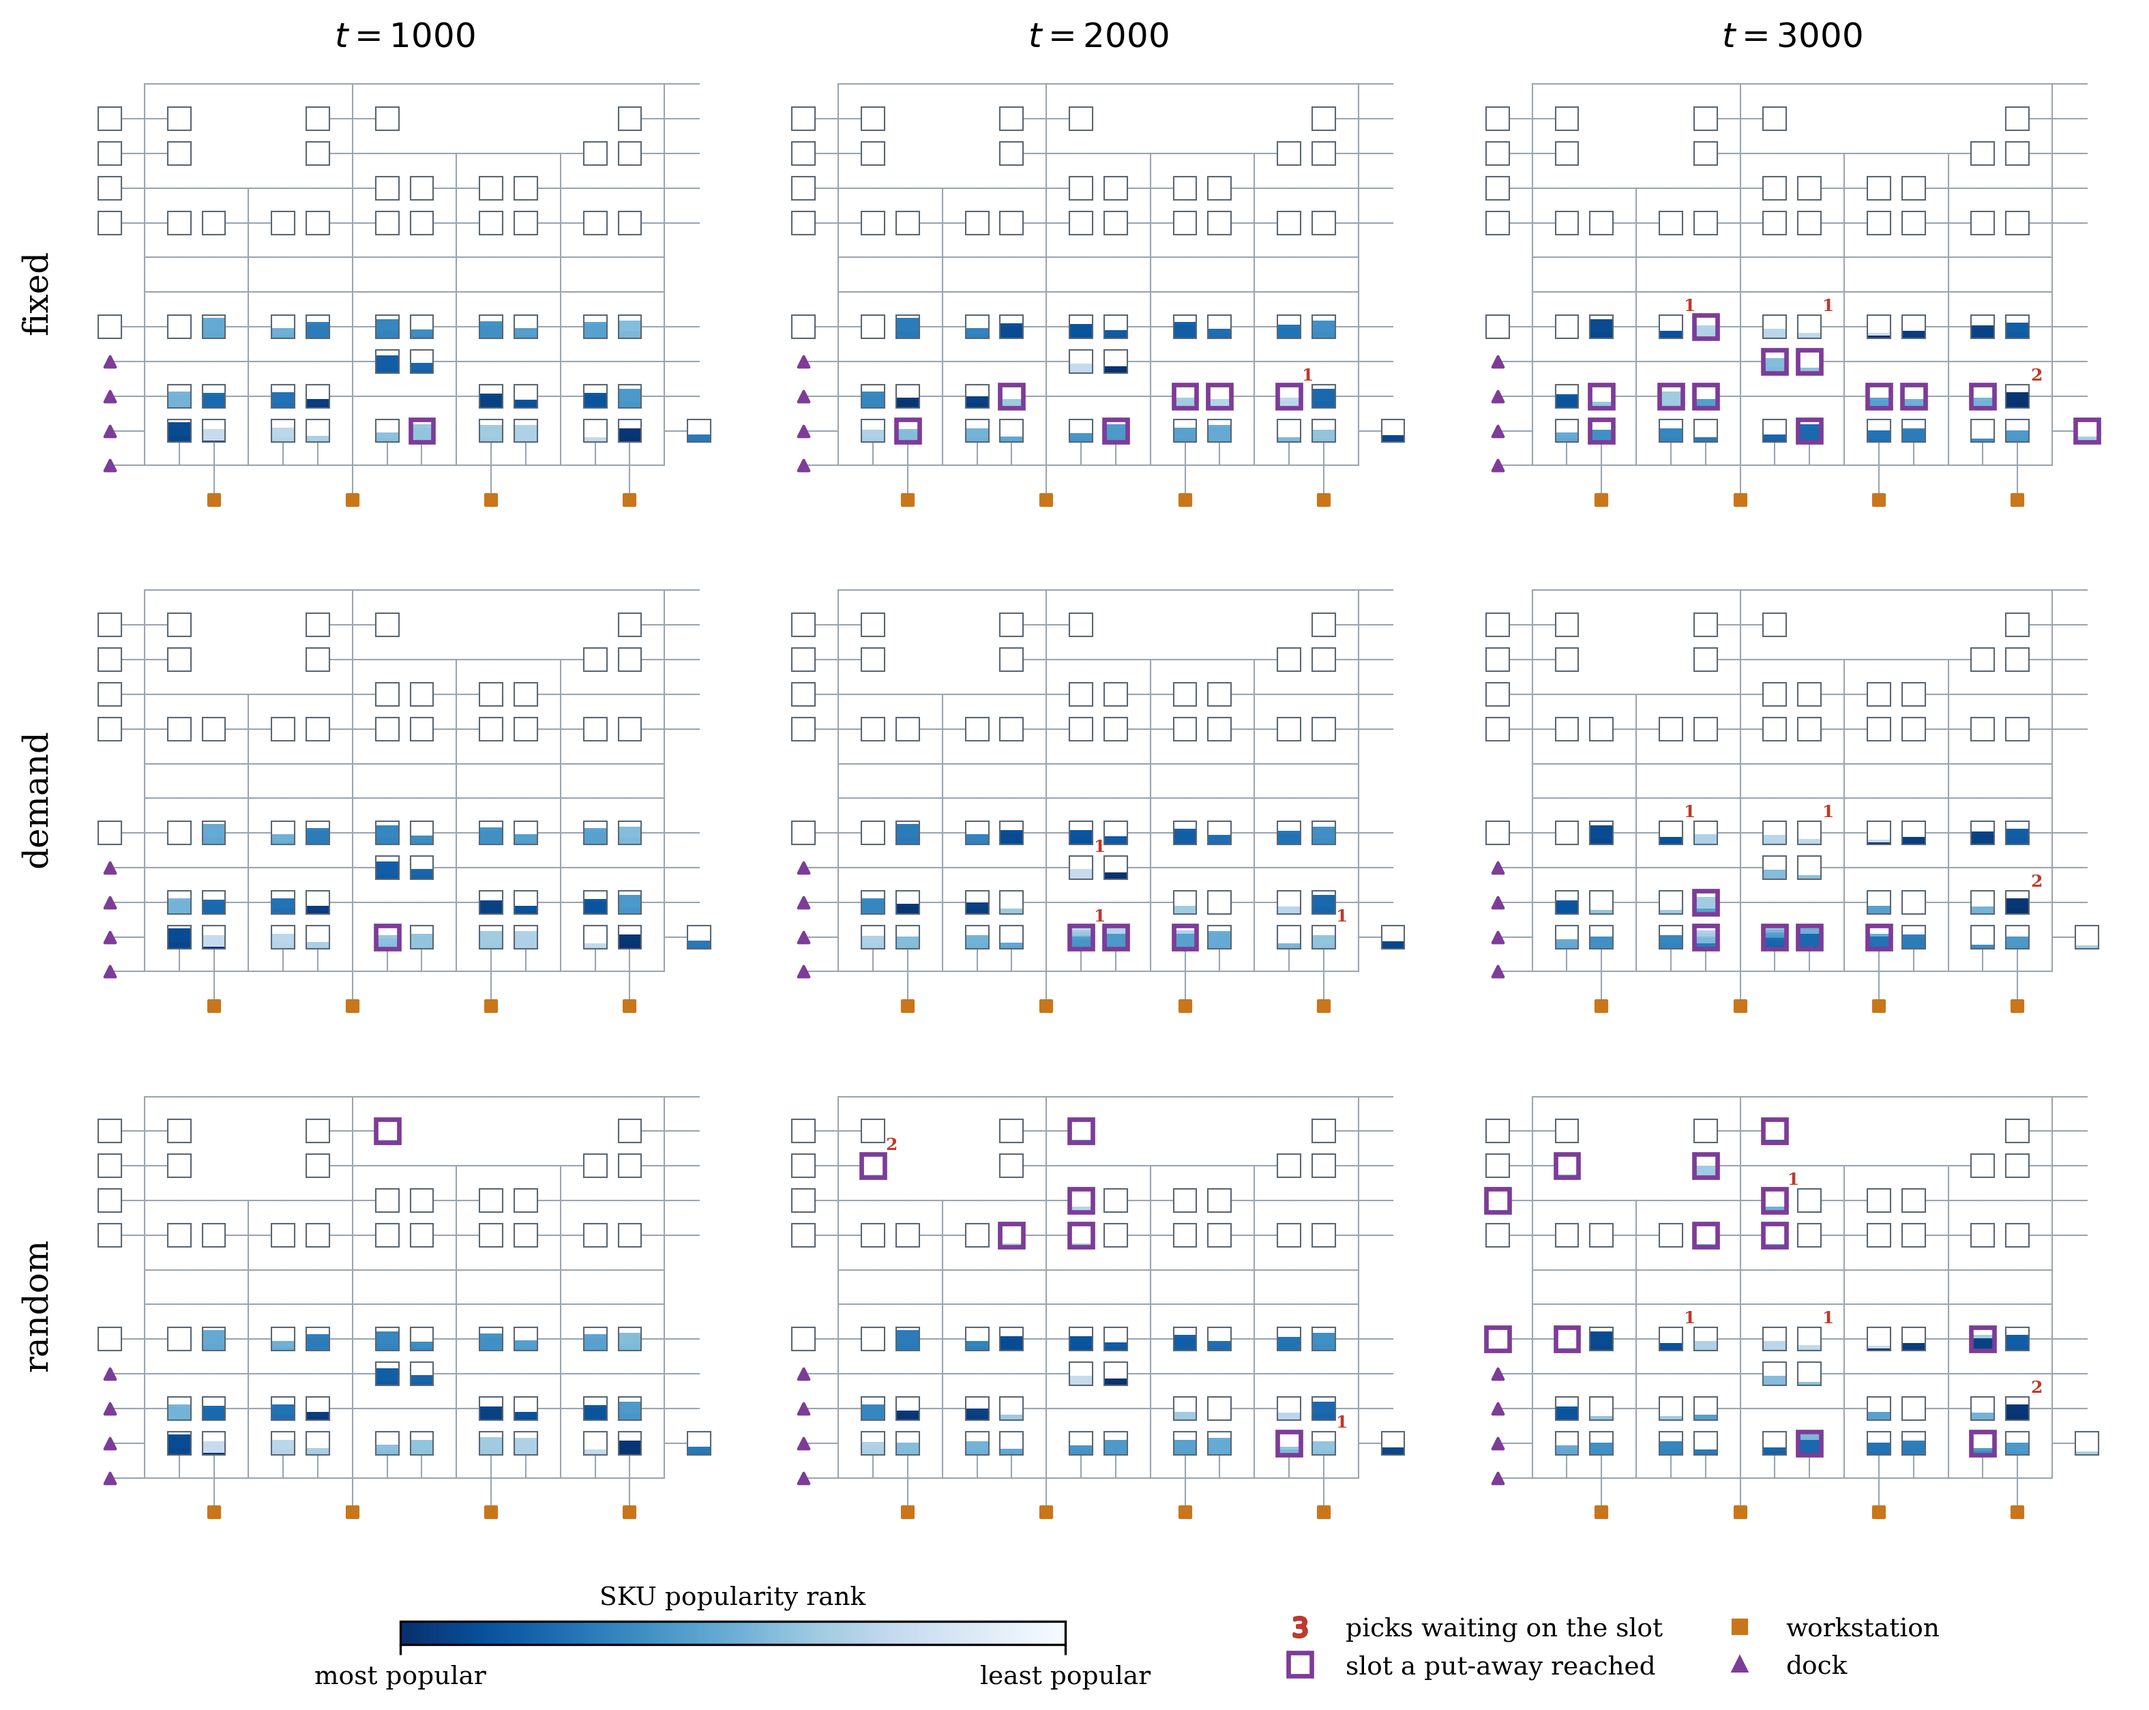
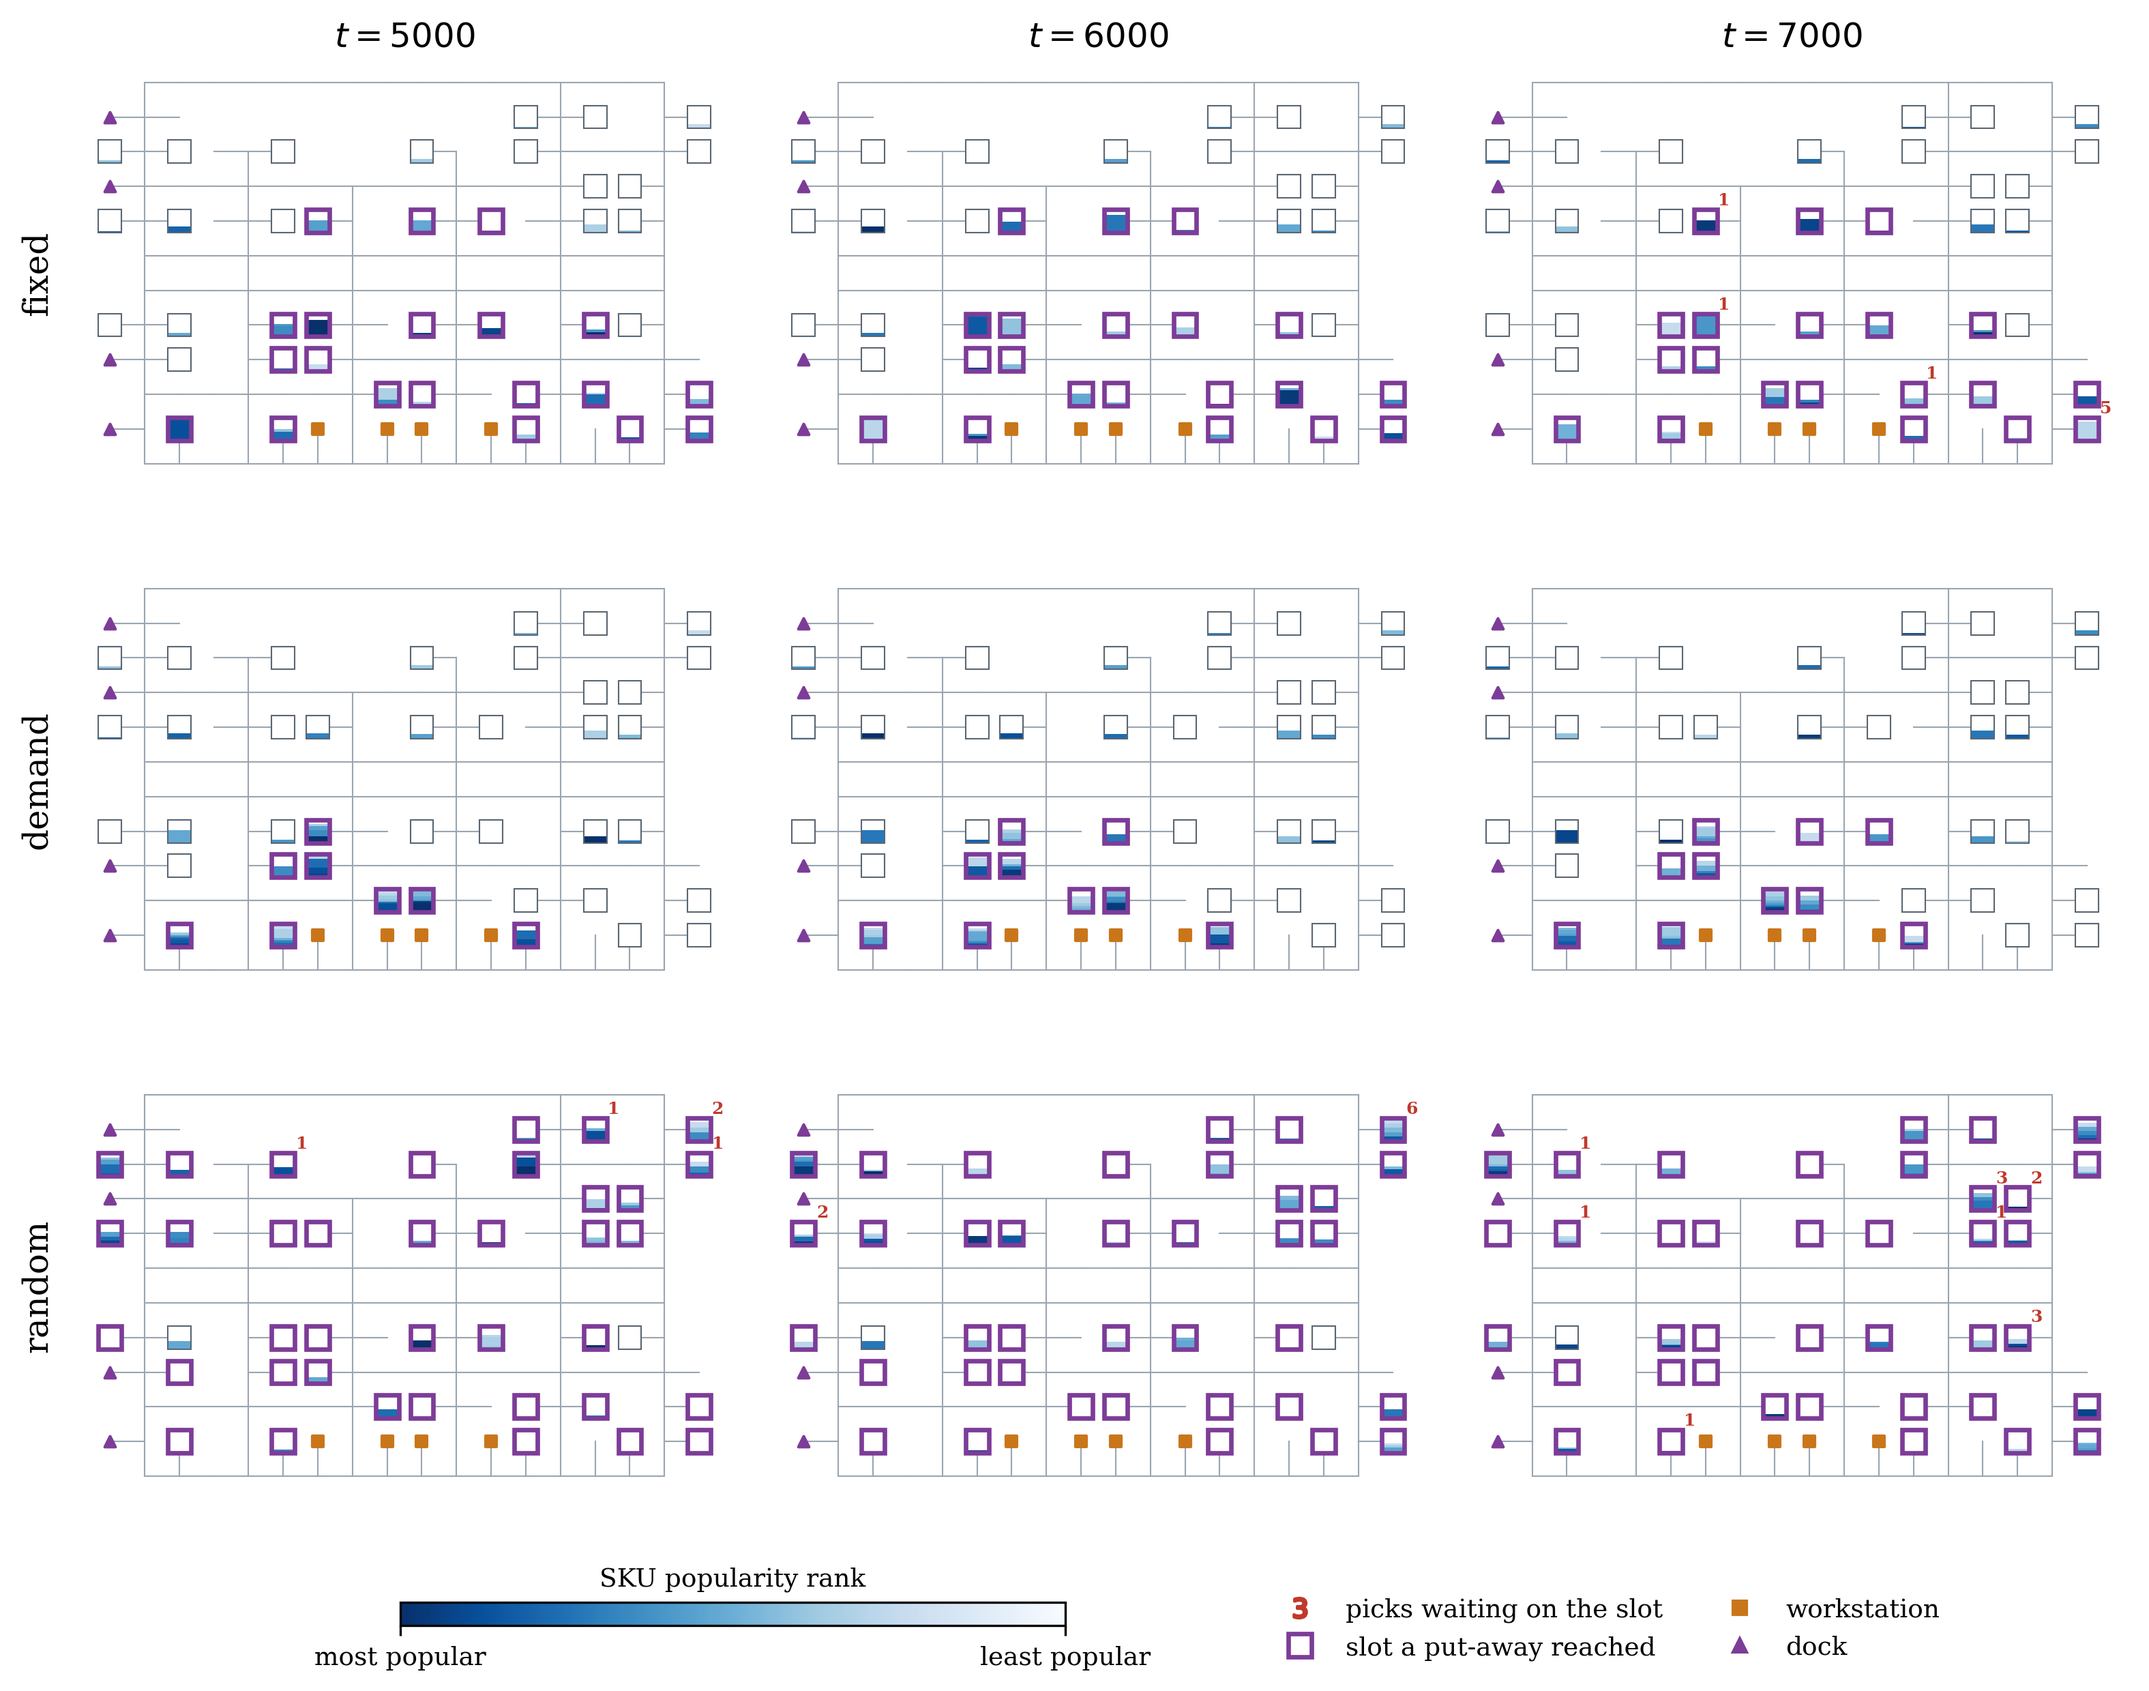
Appendix figures on the updated run: main loads in E, refill size in G, stock moments redrawn
appendix_load.py adds the main-load rows (demand.skew at 1) to the load figures. appendix_storage.py
draws the refill size (arrival.refill_units, with Q = 10 from the period sweep) instead of the
stock margin, which the refill rule does not have. stock_moments_data.py takes the moments at
5000, 6000 and 7000, the end of the warm-up and a quarter and a half cycle later, and gives the
command for its run.

diff --git a/scripts/images/appendix_storage.py b/scripts/images/appendix_storage.py
@@ -4,10 +4,10 @@ The figures of the Storage rule values appendix (G.StorageValues.tex, app:storag
 Run:  python thesis-progress/scripts/images/appendix_storage.py   (from the workspace root)
 Out:  thesis-progress/scripts/Images/app_storage_period.png   fig:app:storageperiod
       thesis-progress/scripts/Images/app_storage_beta.png     fig:app:storagebeta
-      thesis-progress/scripts/Images/app_storage_margin.png   fig:app:storagemargin
+      thesis-progress/scripts/Images/app_storage_refill.png   fig:app:storagerefill
 
 Reads the storage columns of the Token Passing parameter sweep
-(results/G_storage/fleet_<m>/storage_rule.*/, from slap-mapd-coupling's
+(results/G_storage/fleet_<m>/storage_rule.*/ and arrival.refill_units/, from slap-mapd-coupling's
 scripts/sweep/parameter_sweep.bash). A missing run is drawn as a placeholder.
 """
 import os
@@ -35,16 +35,17 @@ def storage_beta():
                         extra=("mean_crowding", "mean\ncrowding"))
 
 
-def storage_margin():
-    """The stock margin epsilon under demand storage, paired with fixed storage at the same
-    margin (app:cal:margin). The margin sets how much stock arrives above the last period's
-    orders, so it changes fixed storage too."""
-    columns = [("arrival.margin", "demand", r"stock margin $\varepsilon$", 1.0, None)]
-    return sweep_figure("app_storage_margin.png", columns, SWEEP)
+def storage_refill():
+    """The refill size Q under demand storage, paired with fixed storage at the same Q
+    (app:cal:refill). Q changes fixed storage too, since it sets how much arrives. The sweep ran
+    Q = 15, 30 and 60, and the point at Q = 10 is the storage period sweep at Delta = 100."""
+    columns = [("arrival.refill_units", "demand", r"refill size $Q$ (units)", 10.0, None)]
+    return sweep_figure("app_storage_refill.png", columns, SWEEP,
+                        add_default=("storage_rule.epoch_length", 100.0))
 
 
 def appendix_storage():
-    return [storage_period(), storage_beta(), storage_margin()]
+    return [storage_period(), storage_beta(), storage_refill()]
 
 
 if __name__ == "__main__":

diff --git a/scripts/images/appendix_data.py b/scripts/images/appendix_data.py
@@ -161,13 +161,16 @@ def save(fig, name):
     return path
 
 
-def sweep_figure(name, columns, results_dir, extra=None):
+def sweep_figure(name, columns, results_dir, extra=None, add_default=None):
     """Storage or demand parameters swept with Token Passing, one column each, read top to
     bottom as the catalogue reads a run: (a) result, the pick service gain over fixed,
     (b) cost, the put-away service time over fixed, (c) check, the share of seeds that keep
     up, picks solid and put-aways dashed. A column is (parameter, rule, x label, default,
     fixed_default). extra = (row field, y label) adds a panel of that field's mean, for
-    example the crowding under the congestion weight."""
+    example the crowding under the congestion weight. add_default = (folder, value) takes the
+    rows of another sweep at `value` as the point at the column's default, when the sweep of the
+    parameter left its default out (the refill size, whose Q = 10 rows are those of the storage
+    period sweep at Delta = 100)."""
     n = 4 if extra else 3
     k = len(columns)
     fig, axes = plt.subplots(n, k, figsize=(4.2 * k + 1.0, 1.7 * n + 1.2), sharex="col",
@@ -181,6 +184,10 @@ def sweep_figure(name, columns, results_dir, extra=None):
             folders = [parameter] + ([fixed_default[0]] if fixed_default else [])
             rows = [r for folder in folders for r in read_jsonl(
                 os.path.join(results_dir, f"fleet_{fleet}", folder, "load_sweep.jsonl"))]
+            if add_default:
+                rows += [dict(r, varied=parameter, value=default) for r in read_jsonl(
+                    os.path.join(results_dir, f"fleet_{fleet}", add_default[0],
+                                 "load_sweep.jsonl")) if r.get("value") == add_default[1]]
             points = sweep_points(rows, parameter, rule, fixed_default)
             if not points:
                 continue

diff --git a/scripts/images/stock_moments_data.py b/scripts/images/stock_moments_data.py
@@ -5,7 +5,12 @@ Run from the workspace root:
     python thesis-progress/scripts/images/stock_moments_data.py RUN_DIR
 
 RUN_DIR is a load_sweep.py output with one trace per storage rule in
-traces/ (made with --trace-seeds 1). The traces are several megabytes and
+traces/ (made with --trace-seeds 1), for example, from slap-mapd-coupling:
+
+    python scripts/sweep/load_sweep.py --config configs/fleet_8/decentralised.yaml \
+        --rates 0.09 --seeds 1 --storage-modes fixed demand random --trace-seeds 1 \
+        --horizon 7000 --warmup 5000 --workers 3 --out RUN_DIR
+ The traces are several megabytes and
 stay off git. This script keeps only the warehouse and, at each moment, the
 units per slot by popularity rank, the picks waiting per slot and the
 put-aways delivered to each slot so far, in data/stock_moments.json.
@@ -17,10 +22,9 @@ import sys
 
 DATA = os.path.join(os.path.dirname(__file__), "data", "stock_moments.json")
 RULES = ("fixed", "demand", "random")
-# After a warm-up stand-in of 1000 steps, then a quarter and a half demand
-# cycle (4000 steps) later. The warm-up is set by test C (Welch's method), so
-# the moments are provisional until it has run.
-MOMENTS = (1000, 2000, 3000)
+# The end of the 5000-step warm-up of the Token Passing runs (app:load:method), then a
+# quarter and a half demand cycle (4000 steps) later.
+MOMENTS = (5000, 6000, 7000)
 
 
 def _lines(path):

diff --git a/scripts/images/appendix_load.py b/scripts/images/appendix_load.py
@@ -25,7 +25,13 @@ SWEEP = os.path.join(RESULTS, "F_demand")
 
 
 def _fixed_by_rate(fleet):
+    """Fixed storage rows of the load sweep by rate, with the main load added. The main loads
+    lie below the lowest rate of the grid, so their rows come from the demand sweep at its thesis
+    values (results/F_demand/fleet_<m>/demand.skew at skew 1), the same 20 seeds and settings."""
     rows = read_jsonl(os.path.join(LOAD, f"fleet_{fleet}", "load_sweep.jsonl"))
+    rows += [r for r in read_jsonl(os.path.join(SWEEP, f"fleet_{fleet}", "demand.skew",
+                                                 "load_sweep.jsonl"))
+             if r.get("value") == 1.0]
     by_rate = {}
     for r in rows:
         if r["storage_mode"] == "fixed":
@@ -77,8 +83,8 @@ def load_sweep_fleets():
 
 def load_validity():
     """Units put off their home shelf (overflow_units, a) and units that fitted on no shelf
-    (unplaced_units, b) against the rate per agent, fixed storage, mean over seeds. Both are
-    0 at the main loads (measures_catalogue.md, Validity)."""
+    (unplaced_units, b) against the rate per agent, fixed storage, mean over seeds, counted
+    over the whole run. No unit is unplaced at the main loads (app:load:validity)."""
     fig, axes = plt.subplots(1, 2, figsize=(7.6, 2.8), sharex=True,
                              gridspec_kw=dict(wspace=0.35))
     found = False
